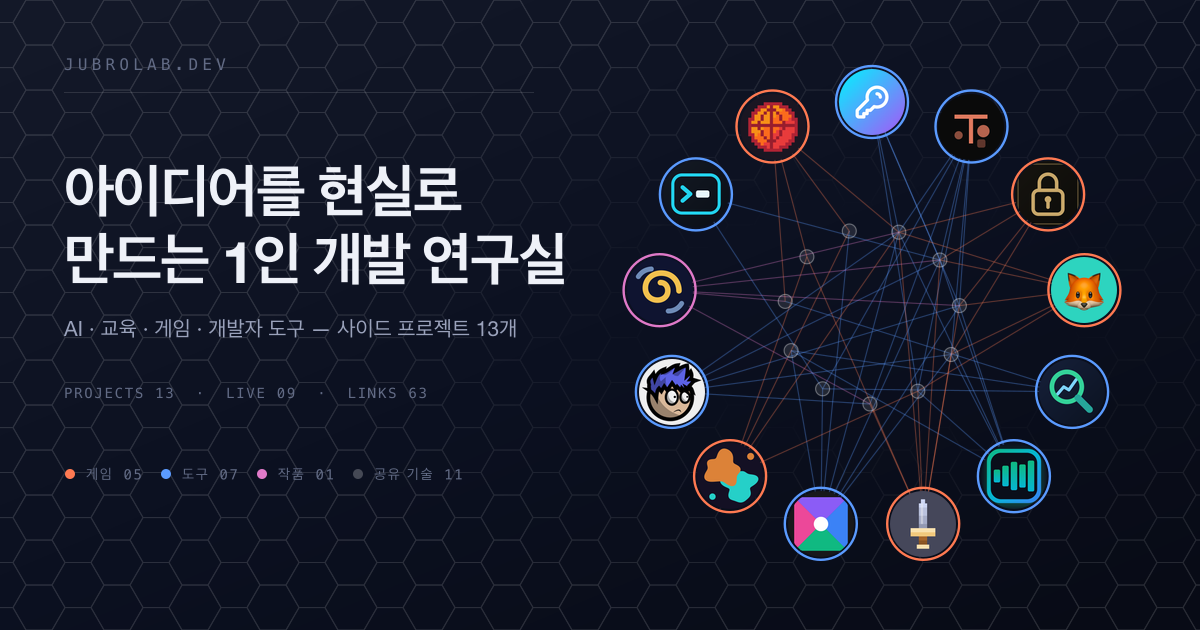
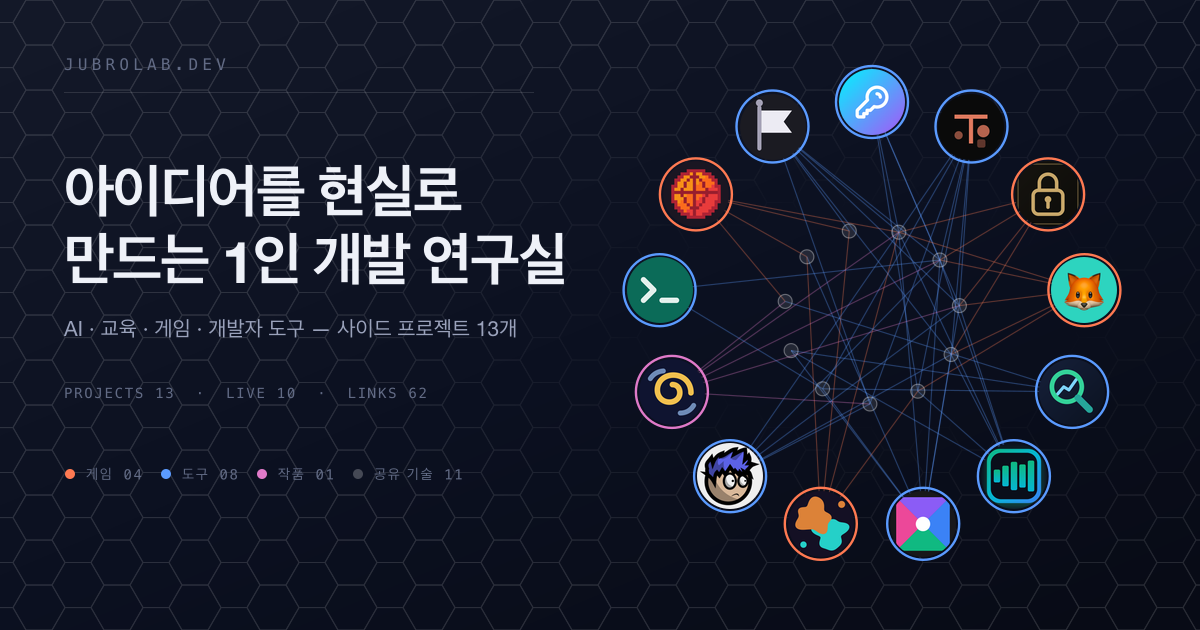
Vanguard 를 내리고 Bannerholm 을 열세 번째로 넣음
개수·선·필터는 COUNTS 와 SHARED_TECH 가 세므로 손으로 적힌 숫자만 따라 고쳤다.
선은 63 에서 62 로 줄었다 — 빠진 일곱, 들어온 여섯. Phaser 는 INK ARENA 와
RIM RATS 가 남아 여전히 둘 이상이라 홀로 남은 태그는 없었다.

Bannerholm 의 관계 태그는 저장소를 열어 확인한 것만 넣었다. 매니페스트도 서비스
워커도 없어 PWA 는 빼고, 스프라이트 썸네일과 맵 미리보기가 2D 컨텍스트를 쓰므로
Canvas 를 넣었다. 경로탐색은 내려간 Vanguard 와 겹쳐 보이지만 A* 가 아니라
FlowField 다 — 목표 하나를 그리드 전체에 한 번 풀고 모든 유닛이 나눠 쓴다.
설명을 옮겨 적었으면 관계도가 거짓말을 할 뻔했다.

그림 둘은 저장소에 파일로 없다. OG 는 opengraph-image.tsx 가 빌드 때 굽는 것이라
Impastile 과 같이 배포본에서 받아 왔고, 아이콘은 마크가 brandMark.ts 의 문자열이라
collect-icons 의 DRAWN 에 같은 도형과 색을 옮겨 적었다. 둘 다 어디서 온 것인지
DATA.md 에 적어 다음에 헤매지 않게 했다.

make-og 의 Vanguard 블록과 시안 데이터의 항목도 함께 지웠다. 시안은
public/icons 를 그대로 가리키므로 남겨두면 없는 파일을 부른다. 사이트 OG 카드는
PROJECTS 를 세므로 다시 구웠다. secondary 를 쓰던 유일한 프로젝트가 내려갔지만
타입과 버튼은 두고 주석만 사실에 맞췄다.

Changed region(s): [[0.4933, 0.1508, 0.8017, 0.9048]]

diff --git a/data/projects.ts b/data/projects.ts
@@ -58,7 +58,7 @@ export type Project = {
   status: ProjectStatus;
   /** 웹으로 띄운 적이 없는 프로젝트에는 없다. */
   url?: string;
-  /** 서비스가 둘인 프로젝트만 채운다 (Vanguard). */
+  /** 서비스가 둘인 프로젝트만 채운다. 지금은 쓰는 프로젝트가 없다. */
   secondary?: { label: string; url: string };
 };
 
@@ -233,40 +233,6 @@ export const PROJECTS: Project[] = [
     icon: '/icons/ticker-brief.png',
     status: 'ended',
     url: 'https://ticker-brief.jubrolab.dev/',
-  },
-  {
-    id: 'vanguard',
-    name: 'Chronicles of the Vanguard',
-    kind: 'STRATEGY',
-    group: 'game',
-    tagline: '타일 위에서 굴러가는 실시간 전략',
-    blurb:
-      '경로탐색은 A*, 유닛 AI는 FSM, 시야는 셀 단위 안개, 자원은 채집과 고갈까지 굴러갑니다. 맵과 유닛을 직접 만드는 에디터가 따로 붙습니다.',
-    story:
-      '게임 로직을 Phaser 밖으로 전부 밀어냈습니다. 경로탐색·충돌·시야·자원·봇은 프레임워크를 모르는 순수 패키지에 있고, Phaser는 그 결과를 그리기만 합니다. 그래서 게임을 띄우지 않고도 로직을 테스트할 수 있고, 에디터와 게임이라는 두 앱이 같은 데이터 파일 하나를 봅니다. 밸런스를 고치려고 게임을 다시 빌드할 필요가 없습니다.',
-    notes: [
-      '게임 로직이 Phaser 를 모른다 — 순수 패키지로 떼어내 게임 없이 테스트한다',
-      '에디터와 게임이 data/ 하나를 공유한다. 밸런스는 JSON 만 고치면 된다',
-      '봇에 Humanizer 를 붙여 사람처럼 실수하게 만들었다',
-      'Playwright 로 게임 플레이 시나리오 11종을 자동 검증한다',
-    ],
-    tech: ['Next.js', 'React', 'TypeScript', 'Tailwind', 'Phaser', 'Canvas', 'PWA'],
-    stack: [
-      { area: '엔진', items: ['Phaser 3.90', 'phaser3-rex-plugins'] },
-      { area: '셸', items: ['Next.js 15', 'React 19', 'TypeScript', 'Tailwind CSS 4'] },
-      { area: '핵심 로직', items: ['A* 경로탐색', 'FSM 유닛 AI', 'FogGrid 시야', 'BotBrain'] },
-      {
-        area: '에디터',
-        items: ['Canvas 2D (유닛·맵 미리보기)', '@xyflow/react', 'serwist (PWA)'],
-      },
-      { area: '구조', items: ['npm workspaces', 'zod 3 (데이터 스키마)', 'Zustand 5'] },
-      { area: 'QA', items: ['Playwright 시나리오 11종'] },
-    ],
-    og: '/og/vanguard.png',
-    icon: '/icons/vanguard.png',
-    status: 'live',
-    url: 'https://vc-rts.jubrolab.dev/',
-    secondary: { label: '맵 에디터 열기', url: 'https://vc-editor.jubrolab.dev/' },
   },
   {
     id: 'specast',
@@ -489,6 +455,39 @@ export const PROJECTS: Project[] = [
     icon: '/icons/rim-rats.png',
     status: 'live',
     url: 'https://rim-rats.jubrolab.dev/',
+  },
+  {
+    id: 'bannerholm',
+    name: 'Bannerholm',
+    kind: 'STUDIO',
+    group: 'tool',
+    tagline: '2D 게임의 규칙을 화면에서 고친다',
+    blurb:
+      '타일맵 · 유닛 · 건물 · 전투 AI 에디터 넷이 한 스튜디오에 있습니다. 유닛을 배치해 실제로 싸움을 붙여 보며 고치고, 결과는 코드가 아니라 저장소의 JSON 으로 떨어집니다. 유닛 11 · 건물 10 · AI 프리셋 10.',
+    story:
+      '게임 하나가 아니라 게임을 만드는 자리를 만들었습니다. 규칙(스탯 · 건물 · 전투 AI)이 코드에 있으면 숫자 하나를 만질 때마다 다시 빌드해야 해서, 규칙은 전부 데이터로 내리고 엔진은 데이터가 시킨 것만 하게 했습니다. 게임 로직이 프레임워크를 모른다는 것도 약속으로 두지 않았습니다 — tsconfig 가 React · Next · Phaser 를 막힌 타입으로 돌려세워, 그 셋을 부르는 순간 타입 체크에서 걸립니다.',
+    notes: [
+      '규칙은 data/ 의 JSON 에 있다 — 밸런스를 고치자고 다시 빌드하지 않는다',
+      'core 가 프레임워크를 부르면 tsconfig 의 paths 가 blocked.d.ts 로 돌려 타입 체크에서 막는다',
+      '경로탐색이 A* 가 아니라 FlowField 다. 목표 하나를 그리드 전체에 한 번 풀고 모든 유닛이 나눠 쓴다',
+      '전투 AI 는 상태 · 전이 조건 · 가중치를 이어 만든다. 프리셋 10종이 그렇게 나왔다',
+      '한국어 · 영어를 쓴다. 로케일을 주소가 아니라 쿠키로 기억해 주소 하나가 두 언어를 낸다',
+    ],
+    tech: ['Next.js', 'React', 'TypeScript', 'Tailwind', 'Phaser', 'Canvas'],
+    stack: [
+      { area: '스튜디오', items: ['Next.js 16 (App Router)', 'React 19', 'TypeScript', 'Tailwind CSS 4'] },
+      { area: '엔진', items: ['Phaser 4.2'] },
+      {
+        area: '핵심 로직',
+        items: ['FSM 전투 AI', 'FlowField 경로탐색', '충돌 · 시야 · 자원', 'Canvas 2D (스프라이트 · 맵 미리보기)'],
+      },
+      { area: '구조', items: ['npm workspaces 4패키지', 'zod 3 (데이터 스키마)', 'Zustand 5'] },
+      { area: '부가', items: ['next-intl 4 (한국어 · 영어)', 'Vercel Analytics · Speed Insights'] },
+    ],
+    og: '/og/bannerholm.png',
+    icon: '/icons/bannerholm.png',
+    status: 'live',
+    url: 'https://bannerholm-studio.jubrolab.dev/',
   },
 ];
 

diff --git a/design/_projects.js b/design/_projects.js
@@ -80,19 +80,6 @@ window.PROJECTS = [
     url: 'https://ticker-brief.jubrolab.dev/',
   },
   {
-    id: 'vanguard',
-    name: 'Chronicles of the Vanguard',
-    kind: 'STRATEGY',
-    group: 'game',
-    status: 'live',
-    tagline: '타일 위에서 굴러가는 실시간 전략',
-    blurb:
-      '경로탐색은 A*, 유닛 AI는 FSM, 시야는 셀 단위 안개. 맵과 유닛을 직접 만드는 에디터가 따로 붙어 두 앱이 같은 데이터를 봅니다.',
-    tech: ['Phaser', 'Next.js', 'React', 'TypeScript'],
-    specs: [['엔진', 'Phaser 3'], ['유닛', '24종'], ['앱', '게임 + 에디터']],
-    url: 'https://vc-rts.jubrolab.dev/',
-  },
-  {
     id: 'specast',
     name: 'Specast',
     kind: 'BUILDER',

diff --git a/reference/DATA.md b/reference/DATA.md
@@ -19,14 +19,6 @@
 - [배포전] https://Specast.jubrolab.dev/
 - /Users/jangtaegyu/Desktop/ToyProject/specast
 
-## Chronicles of the Vanguard
-
-- https://vc-editor.jubrolab.dev/
-- https://vc-rts.jubrolab.dev/
-- /Users/jangtaegyu/Desktop/ToyProject/vc-studio
-  - /Users/jangtaegyu/Desktop/ToyProject/vc-studio/apps/editor
-  - /Users/jangtaegyu/Desktop/ToyProject/vc-studio/apps/game-rts
-
 ## Token Generator
 
 - https://token-generator.jubrolab.dev/
@@ -67,3 +59,14 @@
   - OG 카드가 저장소에 파일로 없다 — `app/opengraph-image.tsx` 가 빌드 때 굽는다.
     그래서 배포본에서 받아 온다: `curl -o public/og/impastile.png
     https://impastile.jubrolab.dev/opengraph-image`
+
+## Bannerholm
+
+- https://bannerholm-studio.jubrolab.dev/
+- /Users/jangtaegyu/Desktop/ToyProject/bannerholm
+  - 스튜디오는 /Users/jangtaegyu/Desktop/ToyProject/bannerholm/apps/studio
+  - Impastile 과 같다 — OG 카드가 파일이 아니라 `app/opengraph-image.tsx` 라
+    배포본에서 받아 온다: `curl -o public/og/bannerholm.png
+    https://bannerholm-studio.jubrolab.dev/opengraph-image`
+  - 아이콘도 파일이 아니다. 마크가 `apps/studio/src/lib/brandMark.ts` 의 문자열이라
+    `collect-icons.mjs` 의 `DRAWN` 에 같은 도형을 옮겨 적어 굽는다.

diff --git a/README.md b/README.md
@@ -11,7 +11,7 @@
 
 | 자리 | 무엇 |
 | --- | --- |
-| 가운데 | 관계도. 프로젝트 13 + 공유 기술 11, 선 63개. 노드를 끌어 흩을 수 있다 |
+| 가운데 | 관계도. 프로젝트 13 + 공유 기술 11, 선 62개. 노드를 끌어 흩을 수 있다 |
 | 프로젝트 노드 | 누르면 오른쪽에 상세(왜 만들었는지 · 짚어둘 것 · 스택)가 열린다 |
 | 왼쪽 아래 | 기술 필터 11개. 고르면 그 기술을 쓴 프로젝트만 남는다 |
 | 오른쪽 위 | 분류 필터(게임 · 도구 · 작품). 기술 필터와 함께 걸린다 |
@@ -43,7 +43,7 @@ npx tsc --noEmit
 ```bash
 npm run glyphs   # 기술 글리프 → data/tech-icons.ts (simple-icons + 없는 것은 직접 그림)
 npm run icons    # 각 프로젝트 저장소의 앱 아이콘 → public/icons/*.png (512 정규화)
-npm run og       # 저장소에 OG 이미지가 없는 넷을 만든다 → public/og/
+npm run og       # 저장소에 OG 이미지가 없는 둘을 만든다 → public/og/
 npm run brand    # 파비콘(app/icon.svg)과 사이트 OG 카드
 node scripts/make-honeycomb.mjs   # 바탕 벌집의 '채운 칸' 레이어 → globals.css 에 붙이는 base64
 ```
